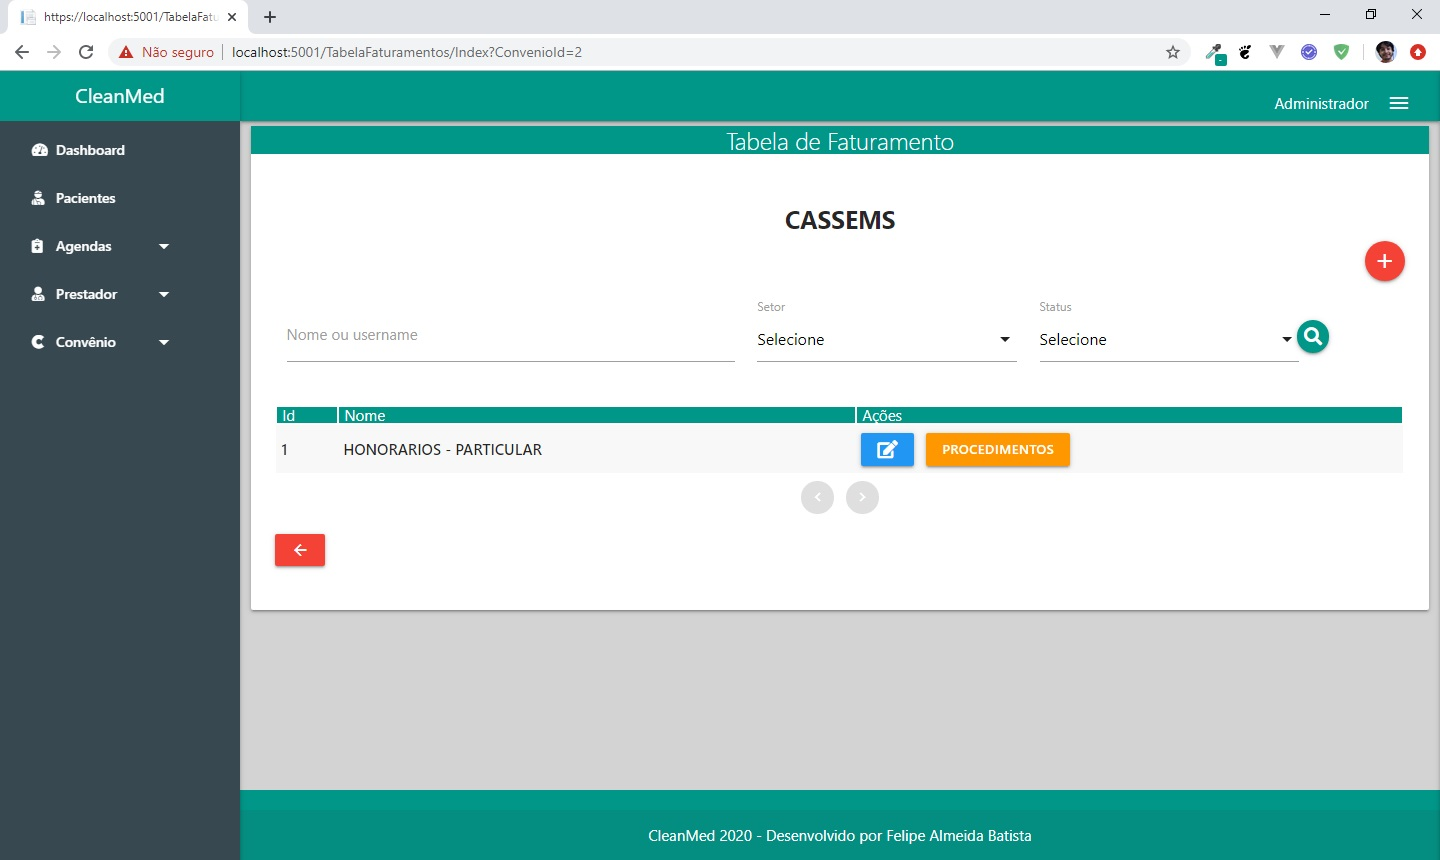
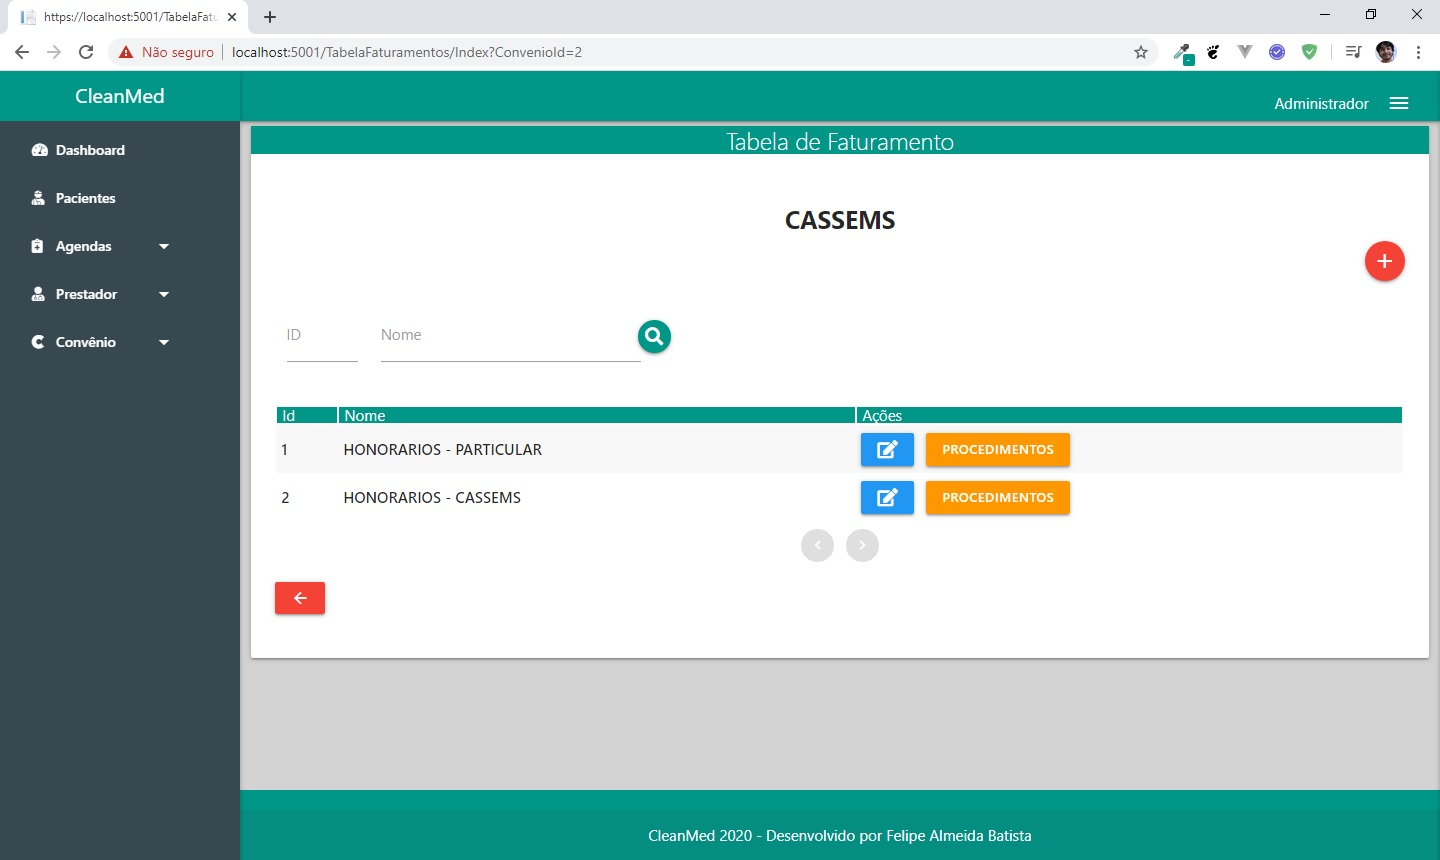
alterado formulario e metodo de pesquisa das views, tabela de faturamento, valores dos procedimentos

diff --git a/CleanMed/wwwroot/js/tabelaProcedimentoFaturamento.js b/CleanMed/wwwroot/js/tabelaProcedimentoFaturamento.js
@@ -80,3 +80,23 @@ $(function () {
         })
     });
 })
+$('.select2-procedimento').select2({
+    //dropdownParent: $('#modalAgendamento'),
+    minimumInputLength: 2,
+    placeholder: "",
+    allowClear: true,
+    language: {
+        inputTooShort: function () {
+            return "Insira 2 ou mais caracteres";
+        },
+        noResults: function () {
+            return 'Sem resultados ';
+        },
+    },
+    escapeMarkup: function (markup) {
+        return markup;
+    },
+
+
+
+})

diff --git a/CleanMed/Controllers/TabelaFatuProcedimentosController.cs b/CleanMed/Controllers/TabelaFatuProcedimentosController.cs
@@ -23,21 +23,26 @@ namespace CleanMed.Controllers
         }
 
         // GET: TabelaFatuProcedimentos
-        public async Task<IActionResult> ValorProcedimento(int TabelaFaturamentoId, int? pageNumber, int searchId, string searchDescricao,int ConvenioId)
+        public async Task<IActionResult> ValorProcedimento(int TabelaFaturamentoId, int? pageNumber, int searchId, int searchProcedimentoId, int ConvenioId)
         {
             ViewData["ConvenioId"] = ConvenioId;
+            ViewData["TabelaFaturamentoId"] = TabelaFaturamentoId;
             var tabelaFaturamentoProcesso = from s in _context.TabelaFatuProcedimentos
                                             where s.TabelaFaturamentoId == TabelaFaturamentoId
                                 select s;
             if (searchId > 0)
             {
 
-                tabelaFaturamentoProcesso = tabelaFaturamentoProcesso.Where(s => s.ProcedimentoId == searchId);
+                tabelaFaturamentoProcesso = tabelaFaturamentoProcesso.Where(s => s.TabelaFatuProcedimentoId == searchId);
+            }
+            if(searchProcedimentoId > 0)
+            {
+                tabelaFaturamentoProcesso = tabelaFaturamentoProcesso.Where(s => s.ProcedimentoId == searchProcedimentoId);
             }
 
             TempData["TabelaNome"] =  _context.TabelaFaturamentos.Where(a => a.TabelaFaturamentoId == TabelaFaturamentoId).Select(a => a.Descricao).First();
             ViewData["TabelaFaturamentoId"] = TabelaFaturamentoId;
-
+            ViewData["ProcedimentoId"] = new SelectList(_context.Procedimentos, "ProcedimentoId", "Descricao");
             int pageSize = 5;
             return View(await PaginatedList<TabelaFatuProcedimento>.CreateAsync(tabelaFaturamentoProcesso.AsNoTracking().Include(a=> a.Procedimento).Include(a => a.TabelaFaturamento), pageNumber ?? 1, pageSize));
         }

diff --git a/CleanMed/Controllers/TabelaFaturamentosController.cs b/CleanMed/Controllers/TabelaFaturamentosController.cs
@@ -28,9 +28,10 @@ namespace CleanMed.Controllers
         }
 
         // GET: TabelaFaturamentos
-        public async Task<IActionResult> Index(int? pageNumber, int searchId, string searchDescricao,int ConvenioId)
+       
+        public async Task<IActionResult> Index(int? pageNumber, int searchID, string searchDescricao,int ConvenioId)
         {
-            ViewData["CurrentFilter"] = searchId;
+            ViewData["CurrentFilter"] = searchID;
             ViewData["CurrentFilter"] = searchDescricao;
             ViewData["ConvenioId"] = ConvenioId;
             TempData["ConvenioNome"] = _context.Convenios.Where(a => a.ConvenioId == ConvenioId).Select(a=>a.Nome).First();
@@ -38,10 +39,10 @@ namespace CleanMed.Controllers
             var tabelaFaturamento = from s in _context.TabelaFaturamentos
                                 where s.ConvenioId == ConvenioId 
                                     select s;
-            if (searchId > 0)
+            if (searchID > 0)
             {
 
-                tabelaFaturamento = tabelaFaturamento.Where(s => s.TabelaFaturamentoId == searchId);
+                tabelaFaturamento = tabelaFaturamento.Where(s => s.TabelaFaturamentoId == searchID);
             }
             if (!String.IsNullOrEmpty(searchDescricao))
             {
